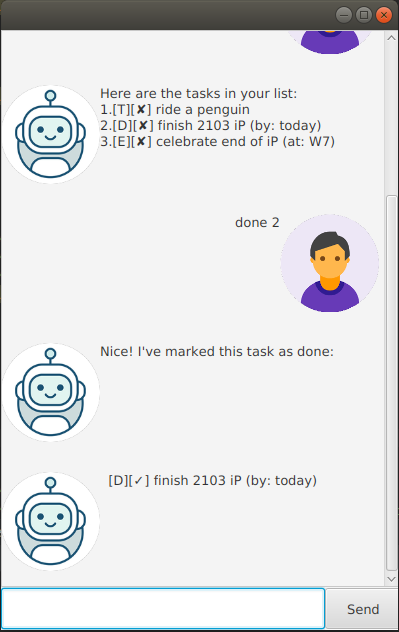
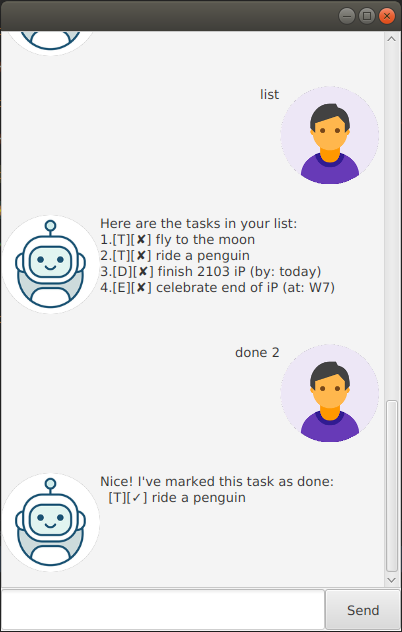
Release the product

diff --git a/src/main/java/duke/ui/Ui.java b/src/main/java/duke/ui/Ui.java
@@ -55,32 +55,24 @@ public abstract class Ui {
         showMessage("Bye. Hope to see you again soon!");
     }
 
-    public void showTask(Task task) {
-        showMessage("  " + task);
-    }
-
     public void showTaskDone(Task task) {
-        showMessage("Nice! I've marked this task as done:");
-        showTask(task);
+        showMessage("Nice! I've marked this task as done:\n  " + task);
     }
 
-    public void showTaskAdded(Task task) {
-        showMessage("Got it. I've added this task:");
-        showTask(task);
+    public void showTaskAdded(Task task, int numTasks) {
+        showMessage("Got it. I've added this task:\n  " + task + "\n" + numTasksMessage(numTasks));
     }
 
-    public void showTaskDeleted(Task task) {
-        showMessage("Noted. I've removed this task:");
-        showTask(task);
+    public void showTaskDeleted(Task task, int numTasks) {
+        showMessage("Noted. I've removed this task:\n  " + task + "\n" + numTasksMessage(numTasks));
     }
 
     public void showTaskEdited(Task task) {
-        showMessage("Got it. I've edited this task:");
-        showTask(task);
+        showMessage("Got it. I've edited this task:\n  " + task);
     }
 
-    public void showNumTasks(int num) {
-        showMessage("Now you have " + num + " task" + (num == 1 ? "" : "s") + " in the list.");
+    public String numTasksMessage(int num) {
+        return "Now you have " + num + " task" + (num == 1 ? "" : "s") + " in the list.";
     }
 
     /**

diff --git a/src/main/java/duke/command/DeleteCommand.java b/src/main/java/duke/command/DeleteCommand.java
@@ -21,7 +21,6 @@ public class DeleteCommand extends Command {
     public void execute(TaskList tasks, Ui ui) throws DukeException {
         Task oldTask = tasks.getTask(position);
         tasks.deleteTask(position);
-        ui.showTaskDeleted(oldTask);
-        ui.showNumTasks(tasks.getNumTasks());
+        ui.showTaskDeleted(oldTask, tasks.getNumTasks());
     }
 }

diff --git a/src/main/java/duke/command/AddCommand.java b/src/main/java/duke/command/AddCommand.java
@@ -24,7 +24,6 @@ public abstract class AddCommand extends Command {
      */
     public void executeAddTask(TaskList tasks, Ui ui, Task task) {
         tasks.addTask(task);
-        ui.showTaskAdded(task);
-        ui.showNumTasks(tasks.getNumTasks());
+        ui.showTaskAdded(task, tasks.getNumTasks());
     }
 }

diff --git a/src/main/java/duke/Duke.java b/src/main/java/duke/Duke.java
@@ -33,6 +33,9 @@ public class Duke {
         ui.showWelcome();
     }
 
+    /**
+     * Saves your tasks into storage.
+     */
     public void saveTasks() {
         try {
             storage.save(tasks.dump());
